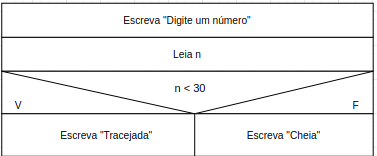
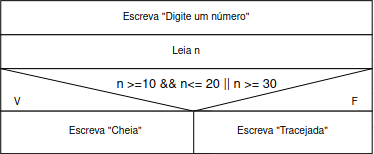
(add) Missing diagrams

diff --git a/exercicios-4/34/a/34_2a.c b/exercicios-4/34/a/34_2a.c
@@ -1,0 +1,21 @@
+#include <stdio.h>
+
+int main(int argc, char const *argv[])
+{
+    int n;
+
+    printf("Digite um numero\n");
+    scanf("%d", &n);
+
+    if (n > 0){
+        printf("Tracejada\n");
+    } else {
+        printf("Cheia\n");
+    }
+
+
+    return 0;
+}
+
+
+// Mudar os chapin, pra maior ou igual

diff --git a/exercicios-4/34/a/34a.c b/exercicios-4/34/a/34a.c
@@ -1,0 +1,18 @@
+#include <stdio.h>
+
+int main(int argc, char const *argv[])
+{
+    int n;
+
+    printf("Digite um numero\n");
+    scanf("%d", &n);
+
+    if (n < 0){
+        printf("Cheia\n");
+    } else {
+        printf("Tracejada\n");
+    }
+
+
+    return 0;
+}
